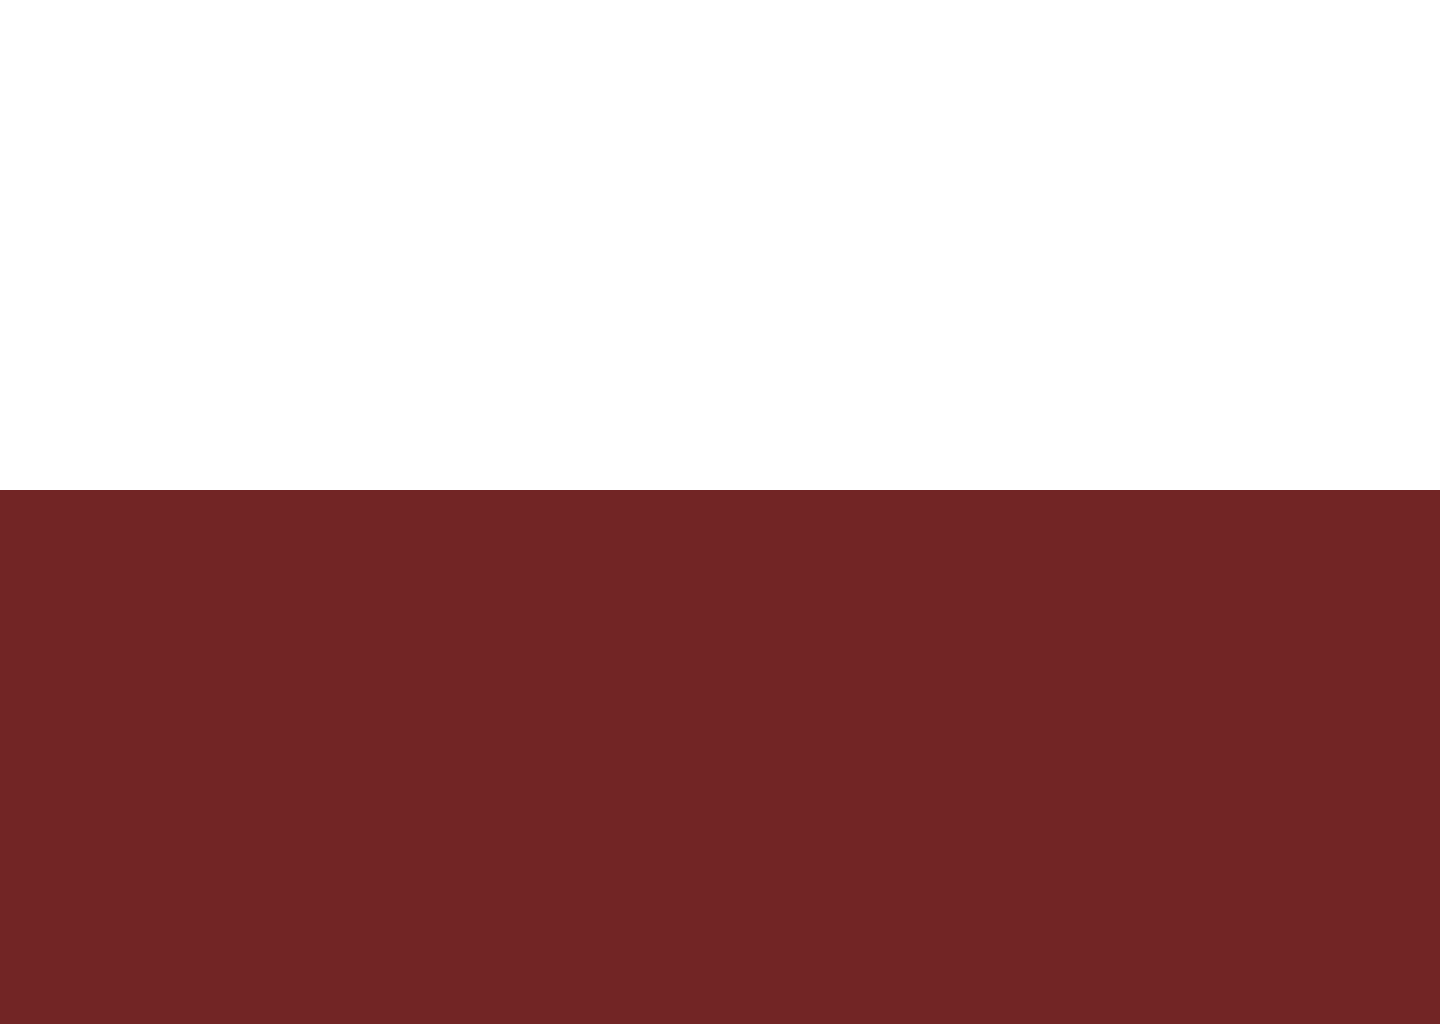
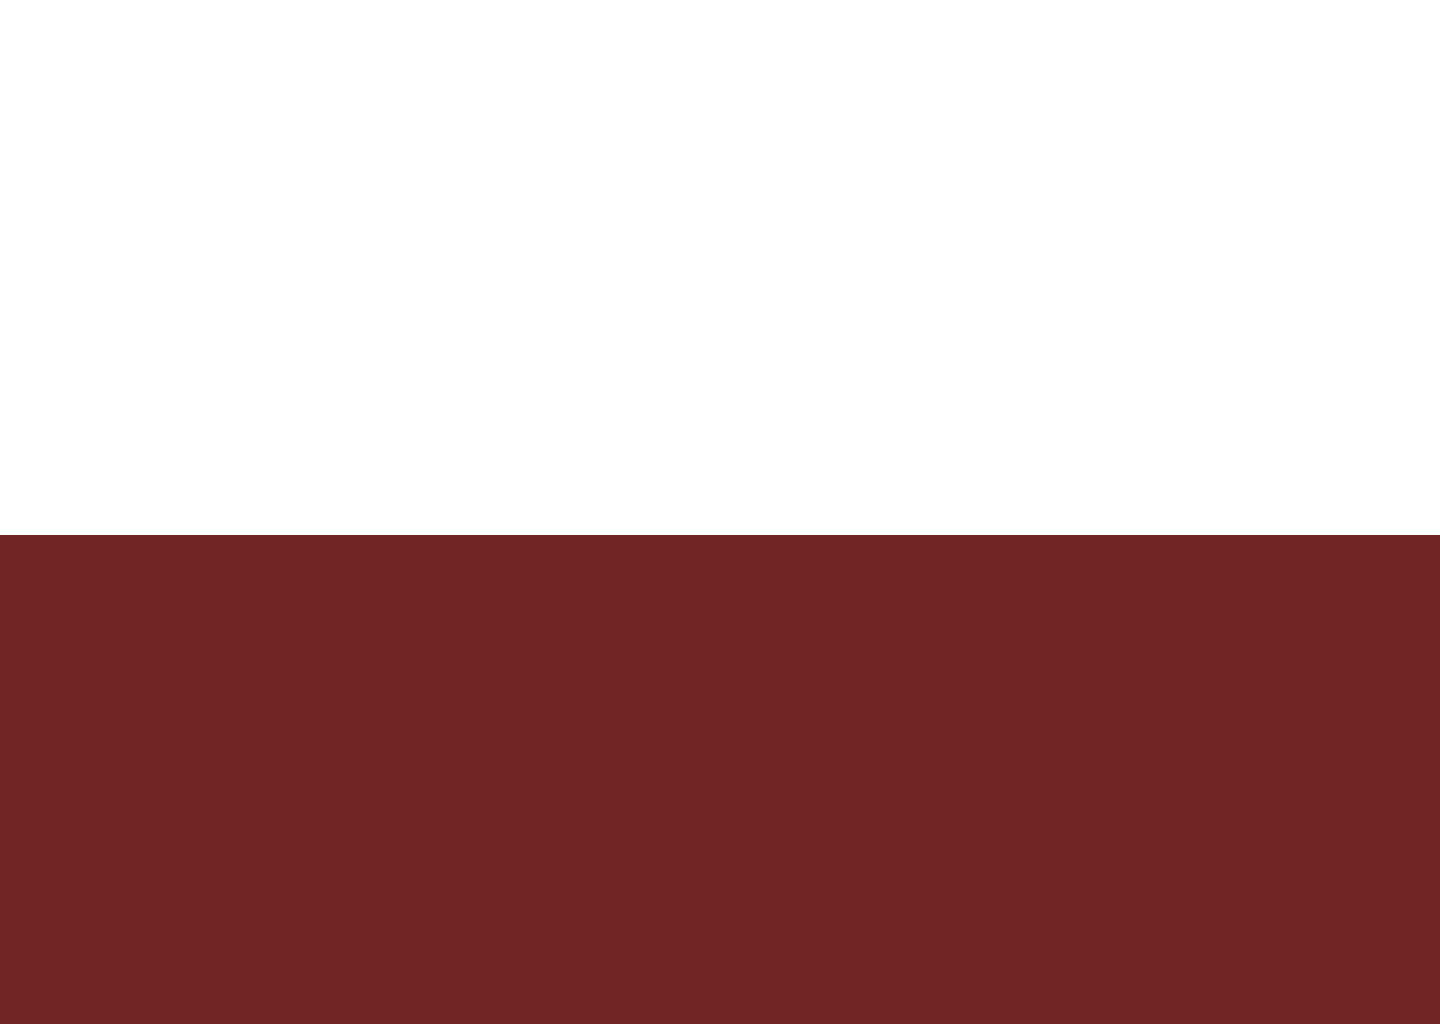
Image Center

Changed region(s): [[0.0, 0.4688, 1.0, 0.5312]]

diff --git a/index.html b/index.html
@@ -241,7 +241,7 @@
 
 
 
-<main class="container mt-lg-3 mt-3 mt-md-2">
+<main class="container mt-lg-3 mt-3 mt-md-2 d-flex flex-column justify-content-center align-items-center" style="min-height: 80vh;">
 
   <!-- Initial Content -->
   <div id="initial-content" class="content-section visible d-none d-lg-block">
@@ -252,7 +252,7 @@
       </p>
     </div>
     <center>
-      <div class="row g-3" style="max-width: 1200px;">
+      <div class="row g-3" style="max-width: 1  200px;">
       <div class="col-6 col-md-6 col-lg-3 mt-2">
         <img src="Ramaniyamimages/img-1.png" class="img-fluid" alt="...">
       </div>
@@ -353,7 +353,7 @@
         </div>
       </div>
 <!-- ✅ Website Title -->
-  <div class="Website-name d-md-none d-lg-block website-title" style="line-height: 1px;">
+  <div class="Website-name d-md-block d-lg-block website-title mt-4" style="line-height: 6px;">
     <h1 class="text-center mt-lg-3">RAMANIYAM</h1>
     <p class="text-center fw-lighter  title-border fw-lighter"
        style="border-top: 1px solid white; display: inline; border-bottom: 1px solid white;">
@@ -370,7 +370,7 @@
 <!-- ✅ Hidden by default (opacity 0) -->
 
 <!-- tablet -function -->
-<div id="ramaniyam-banner" 
+<!-- <div id="ramaniyam-banner" 
      class="container-fluid d-md-block d-none d-lg-none"
      style="background-color: #722525; line-height: 20px; opacity: 0;">
   <h1 class="text-center text-light mt-lg-3">RAMANIYAM</h1>
@@ -388,7 +388,7 @@ document.addEventListener("DOMContentLoaded", () => {
     document.getElementById("ramaniyam-banner").classList.add("show");
   }, 3000); // start fade-in after 5 seconds
 });
-</script>
+</script> -->
 <!-- tablet-function-end -->
 
 

diff --git a/style.css b/style.css
@@ -553,7 +553,7 @@ footer {
 .website-title p {
     color: #fff;
 }
-@media (min-width: 3200px) {
+/* @media (min-width: 3200px) {
   .website-title h1,
   .website-title p {
     color: #722525 !important;
@@ -572,4 +572,4 @@ footer {
     
   }
   
-}
+} */

diff --git a/Allprojects.html b/Allprojects.html
@@ -258,7 +258,7 @@
     </div>
   </div>
 
-<div class="container mb-5">
+<div class="container mb-5 ">
   
 
   <!-- AVAILABLE Carousel -->
